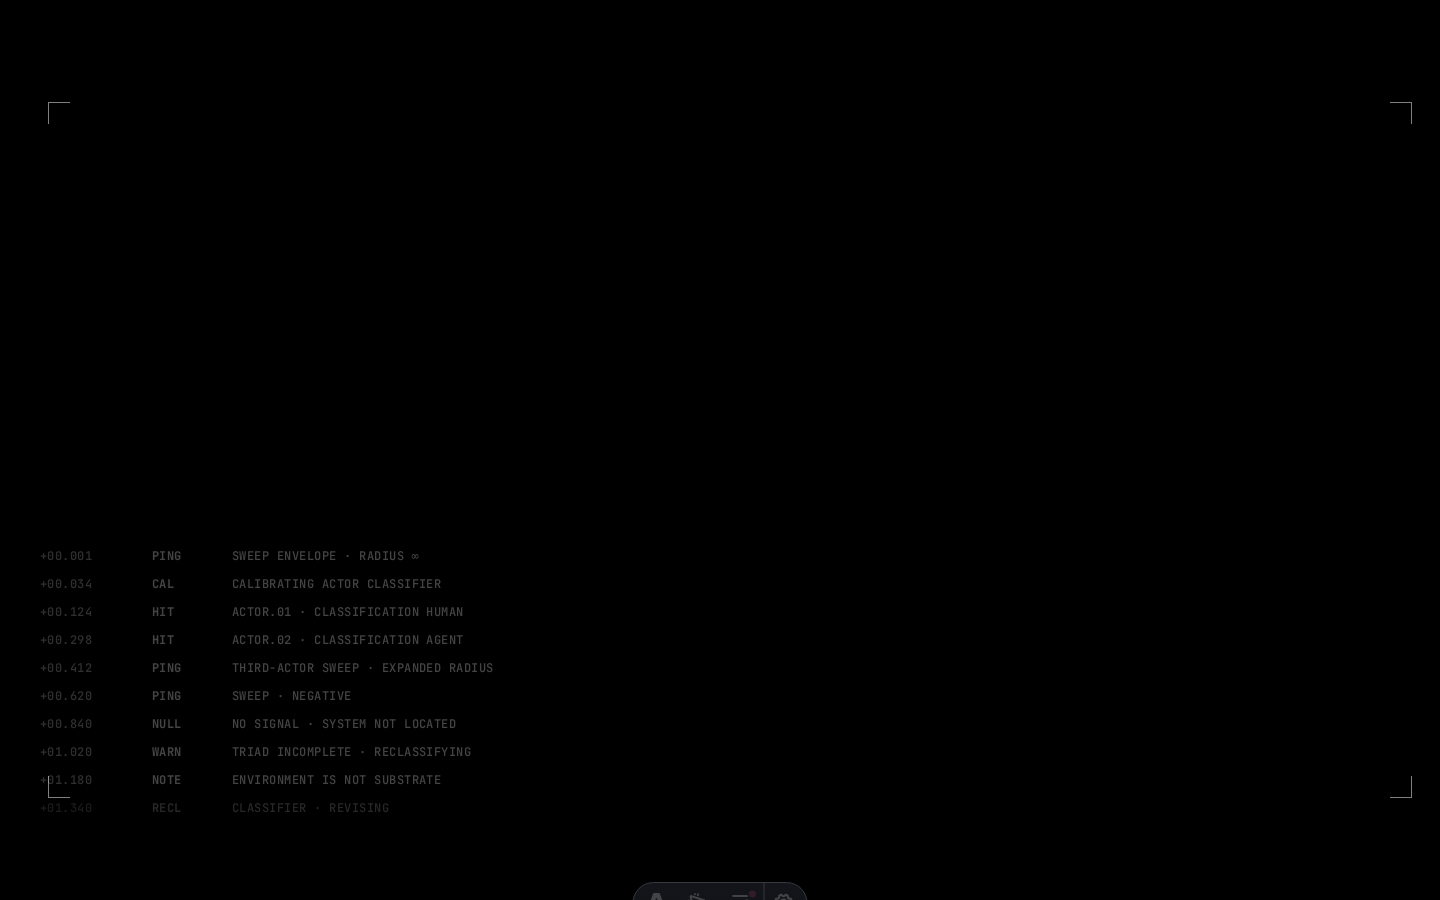
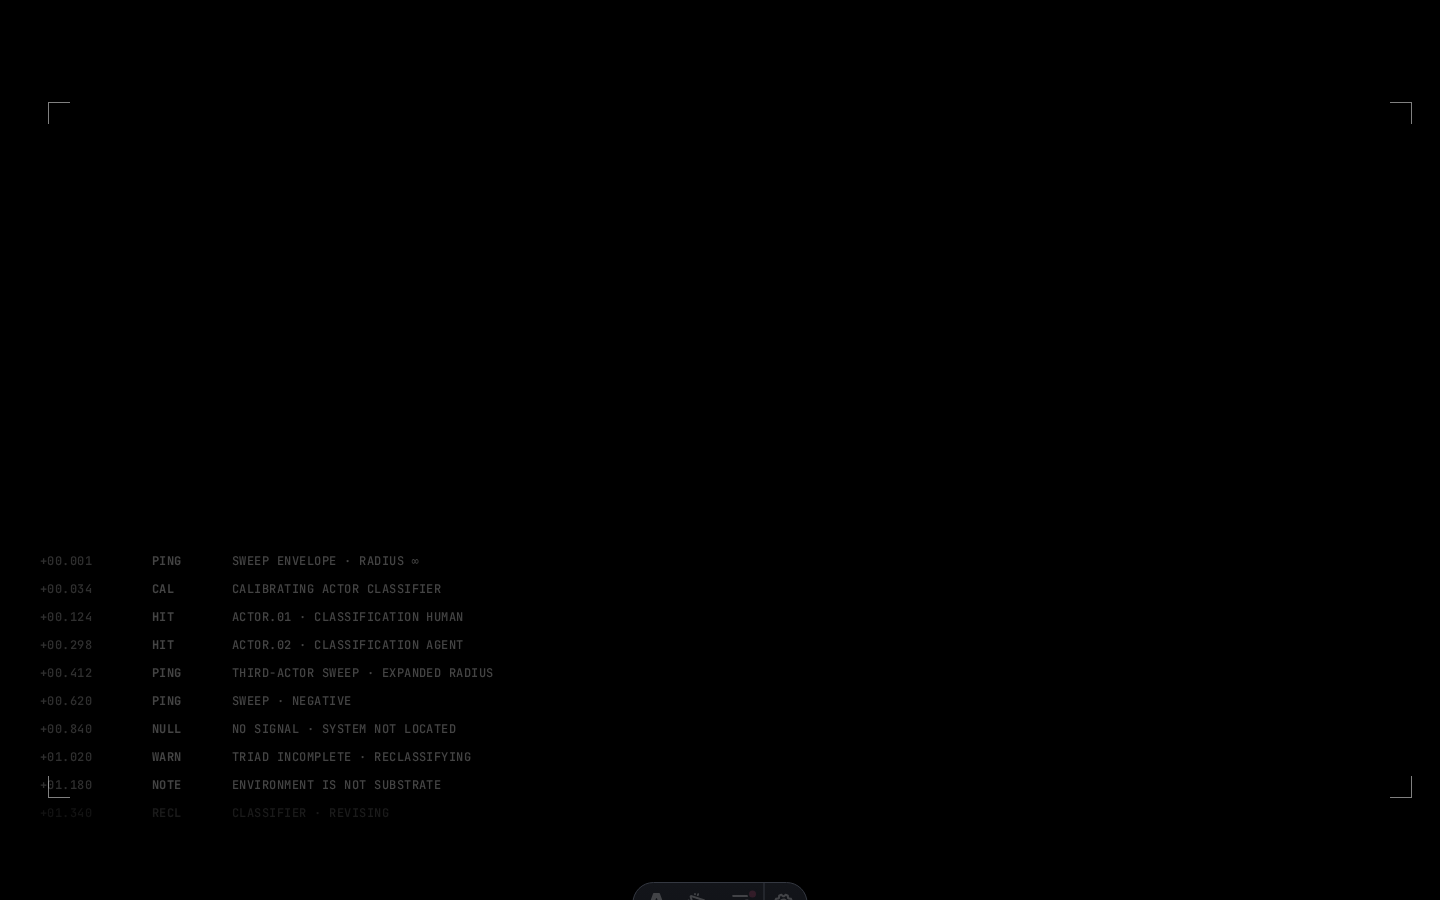
fix(hero): scan-lines fill column + glass reads as light frost not black box
- Bumped pre-rendered SCAN_LINES from 28 to 40 entries. 28 × 28
  = 784px which only fills the standard 740px column; on taller
  viewports (1200+ tall) the bottom of the column was empty.
  40 × 28 = 1120px reliably fills any reasonable column with
  overflow clipping the excess past the top.
- Glassmorphism switched from pure transparent + backdrop-blur
  to subtle white tint + backdrop-blur:
    background: rgba(255, 255, 255, 0.06)
    backdrop-filter: blur(20px) saturate(160%)
    border: 1px solid rgba(255, 255, 255, 0.08)
  The previous "transparent blur" rendered as a darker rectangle
  (blur of dim scan-lines). White tint flips the lockup area to
  read as slightly lighter than its surroundings — a true frosted
  glass card, not a "black box."
- Cold-load reveal sequence still preserved: blank → scan-lines
  write in at 145ms cadence (40 × 145 = 5.8s) → 200ms breath →
  glass + frame-lines write in → loop starts. Hero settles ~7.8s.

diff --git a/src/styles/homepage.css b/src/styles/homepage.css
@@ -468,10 +468,10 @@ body.has-hero-frame-play .scan-line.is-visible {
 .scan-line .scan-d { color: #888888; }
 
 /* Lockup floats above the scan-stack, centered vertically.
-   Glassmorphic — pure backdrop blur with a transparent
-   background. No rgba fill, so no "black bar" feeling; the
-   scan-lines behind the lockup are just blurred into a soft
-   frost while the message stays sharp on top. */
+   White-tinted glassmorphism — subtle rgba(255,255,255,0.06)
+   over backdrop blur reads as a slightly LIGHTER frosted area
+   instead of a darker rectangle. Hairline white border for
+   definition without a hard edge. */
 .frame-block {
   position: absolute;
   top: 50%;
@@ -479,29 +479,35 @@ body.has-hero-frame-play .scan-line.is-visible {
   right: 0;
   transform: translateY(-50%);
   z-index: 2;
-  background: transparent;
-  backdrop-filter: blur(20px);
-  -webkit-backdrop-filter: blur(20px);
+  background: rgba(255, 255, 255, 0.06);
+  backdrop-filter: blur(20px) saturate(160%);
+  -webkit-backdrop-filter: blur(20px) saturate(160%);
+  border: 1px solid rgba(255, 255, 255, 0.08);
   padding: 32px 64px;
   display: flex;
   flex-direction: column;
   align-items: flex-start;
   transition:
+    background 400ms ease-out,
     backdrop-filter 400ms ease-out,
-    -webkit-backdrop-filter 400ms ease-out;
+    -webkit-backdrop-filter 400ms ease-out,
+    border-color 400ms ease-out;
 }
-/* During initial load (before the lockup is ready to write
-   in), the glass is invisible — no blur, no fill, just the
-   transparent box with no visual presence. The orchestrator
-   adds .is-revealing when it's ready, transitioning the blur
-   in before the frame-lines start scanning. */
+/* During initial load — before the lockup is ready to write
+   in — every visual property of the glass is removed: no
+   tint, no blur, no border. The box has no visual presence
+   at all. .is-revealing flips the glass back on. */
 body.has-hero-frame-play .frame-block {
+  background: transparent;
   backdrop-filter: none;
   -webkit-backdrop-filter: none;
+  border-color: transparent;
 }
 body.has-hero-frame-play .frame-block.is-revealing {
-  backdrop-filter: blur(20px);
-  -webkit-backdrop-filter: blur(20px);
+  background: rgba(255, 255, 255, 0.06);
+  backdrop-filter: blur(20px) saturate(160%);
+  -webkit-backdrop-filter: blur(20px) saturate(160%);
+  border-color: rgba(255, 255, 255, 0.08);
 }
 
 /* Frame-line wrapper — same reveal as .scan-line, taller

diff --git a/tests/ili-789-verify.spec.ts b/tests/ili-789-verify.spec.ts
@@ -60,11 +60,11 @@ test.describe('ILI-789 — index boot sequence', () => {
     await page.goto(INDEX);
     await page.waitForLoadState('domcontentloaded');
 
-    // ILI-818 — cold load reveals 28 scan-lines at 145ms cadence,
+    // ILI-818 — cold load reveals 40 scan-lines at 145ms cadence,
     // then a 200ms breath, then 400ms glass fade, then 5 frame
-    // lines × 145ms + 320ms transition ≈ 6s hero settle. Panels
+    // lines × 145ms + 320ms transition ≈ 7.8s hero settle. Panels
     // start revealing then.
-    await page.waitForTimeout(6100);
+    await page.waitForTimeout(7900);
     const afterHeader = await page.evaluate(() => {
       return {
         header: Number(getComputedStyle(document.querySelector('.site-header')!).opacity),
@@ -114,10 +114,10 @@ test.describe('ILI-789 — index boot sequence', () => {
     const context = await browser.newContext({ viewport: { width: 1440, height: 900 } });
     const page = await context.newPage();
 
-    // First visit — let it run. ILI-818 — full boot is ~7.5s
-    // (6s hero settle + ~1.3s panel reveals + 400ms tail).
+    // First visit — let it run. ILI-818 — full boot is ~9s
+    // (7.8s hero settle + ~1.3s panel reveals + 400ms tail).
     await page.goto(INDEX);
-    await page.waitForTimeout(8000);
+    await page.waitForTimeout(9500);
     expect(await page.evaluate(() => sessionStorage.getItem('has_index_booted'))).toBe('1');
 
     // Second visit (reload) — should skip the boot entirely.

diff --git a/tests/ili-818-verify.spec.ts b/tests/ili-818-verify.spec.ts
@@ -16,7 +16,7 @@ const CADENCE = 145;
 const REVEAL_TRANSITION = 320;
 const SCAN_BREATH = 200;
 const GLASS_FADE = 400;
-const SCAN_LINES_COUNT = 28;
+const SCAN_LINES_COUNT = 40;
 const FRAME_LINES_COUNT = 5;
 const POST_LOCKUP_BREATH = 400;
 
